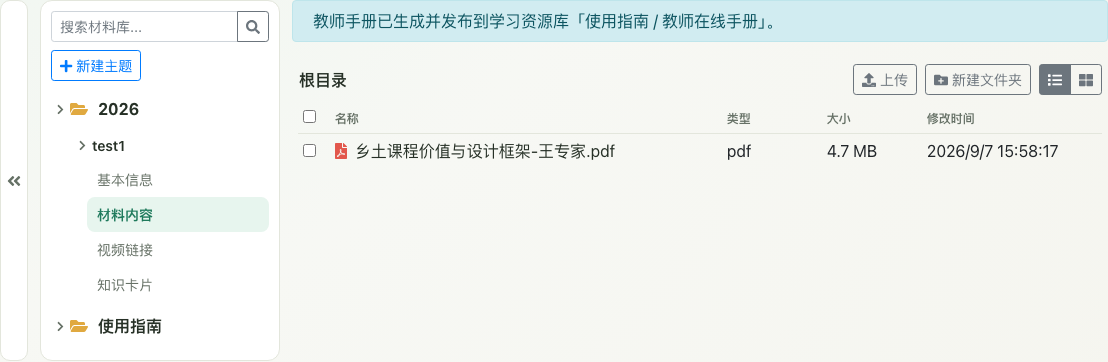
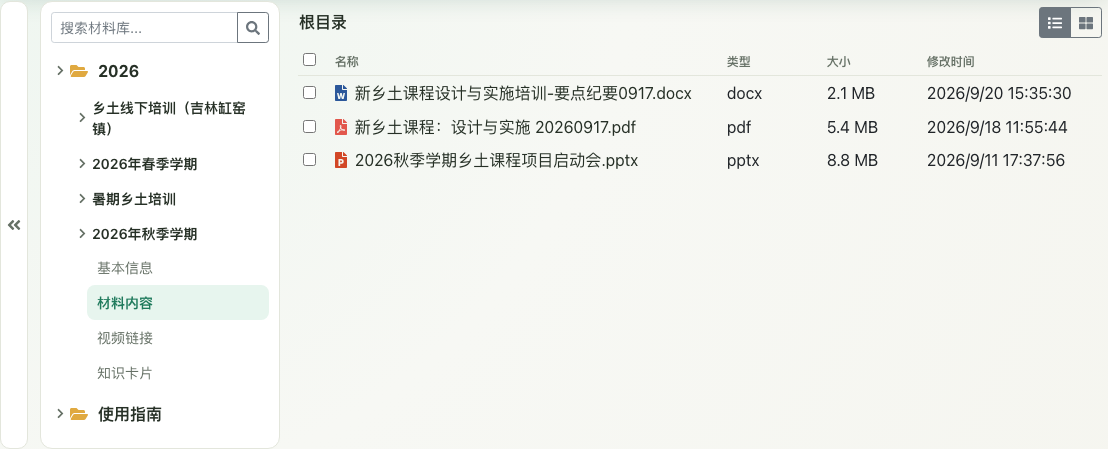
Source the 学习资源库 manual screenshot from production, not dev
Dev's only real 学习资源库 topic is a single-file placeholder-ish "test1";
production's real 2026年秋季学期 topic has several genuinely real uploaded
files, much more representative of what the feature actually looks like in
use. Everything else stays sourced from dev, which has the richer real
乡土课程设计 content (5 real plans vs. production's 1 sparse one).

captureManualScreenshots.js now mints a JWT on production too (via SSH into
the same deploy target scripts/deploy-aliyun-hk.env uses, never touching the
real account's actual password) and reads that one topic's 材料内容 tab
read-only -- no writes to production at all. Deliberately never opens that
topic's 基本信息 tab, which carries a real 主讲人 name; every other screenshot
was re-checked by hand to confirm no real person's name appears in it.

diff --git a/backend/scripts/captureManualScreenshots.js b/backend/scripts/captureManualScreenshots.js
@@ -1,28 +1,47 @@
 // Drives a headless Chromium (via Playwright, a devDependency -- never
-// installed in the production image, see backend/package.json) against a
-// running local dev instance of the app to capture the screenshots
-// teacherManualGenerator.js embeds in the auto-generated teacher manual.
+// installed in the production image, see backend/package.json) to capture
+// the screenshots teacherManualGenerator.js embeds in the auto-generated
+// teacher manual -- sourcing each one from whichever real server (local dev
+// or production) actually has the more representative real content for it.
+// Right now that's local dev for everything plan-related (richer 乡土课程设计
+// content there) and production for 学习资源库 (its real 2026年秋季学期 topic
+// has several real uploaded files; dev's only real topic is a single-file
+// placeholder-ish "test1") -- see MATERIAL_* below.
 //
-// Uses REAL existing accounts and REAL existing 乡土课程设计/学习资源库 content
-// already on this dev server -- not fabricated demo data. Logging in is done
+// Uses REAL existing accounts and REAL existing content on whichever server
+// each screenshot comes from -- not fabricated demo data. Logging in is done
 // by minting a real JWT for an existing user id (scripts/mintDevToken.js,
-// run inside the backend container, where the real JWT_SECRET lives) and
-// injecting it into localStorage, never by touching/knowing anyone's actual
-// password. See scripts/prepareManualScreenshotState.js for the couple of
-// small, clearly-scoped nudges (a review pair, a needsMigration flag) this
-// still needs on top of what's already there naturally.
+// run *on that server* -- inside the local backend container via `docker
+// compose exec`, or on the production ECS host via SSH -- wherever that
+// server's own real JWT_SECRET actually lives) and injecting it into
+// localStorage, never by touching/knowing anyone's actual password. See
+// scripts/prepareManualScreenshotState.js for the couple of small,
+// clearly-scoped nudges (a review pair, a needsMigration flag) dev's real
+// content still needed on top of what was already there naturally.
 //
-// The account ids and plan ids below are specific to THIS dev database --
-// on a different server, inspect what's actually there and update them
-// (see prepareManualScreenshotState.js's own header for the same caveat).
+// No real person's name is ever displayed in any captured screenshot --
+// checked by hand for each one (dev's teacher/expert display names are
+// genericized by prepareManualScreenshotState.js; production's 学习资源库
+// topic has a real 主讲人 name on its 基本信息 tab, so this deliberately only
+// ever captures its 材料内容 tab, never 基本信息).
 //
-// Prerequisites (all local/dev-only, never run against a real deployment):
+// The account ids/plan titles/SSH target below are specific to *these*
+// servers -- on a different one, inspect what's actually there and update
+// them (see prepareManualScreenshotState.js's own header for the same
+// caveat, and scripts/deploy-aliyun-hk.env for where the SSH target/prod
+// domain come from).
+//
+// Prerequisites (dev screenshots -- local/dev-only, never run destructive
+// steps against a real deployment):
 //   1. `docker compose up --build` (frontend on :3000, backend on :8080).
 //   2. `docker compose exec backend node scripts/prepareManualScreenshotState.js`
 //   3. From the HOST (not inside the alpine backend container -- Playwright's
 //      bundled Chromium needs glibc, which alpine doesn't have):
 //        cd backend && npm install && npx playwright install --with-deps chromium
 //        node scripts/captureManualScreenshots.js
+// Production screenshots additionally need SSH access to the deploy target
+// (same key deploy-aliyun-hk.env uses) -- this script only ever *reads*
+// production (view a real 学习资源库 topic), never writes to it.
 //
 // Writes PNGs into backend/assets/manual-screenshots/ -- commit them once
 // you've eyeballed that they look right; teacherManualGenerator.js embeds
@@ -31,6 +50,7 @@
 // Re-run this any time the UI changes enough that a screenshot goes stale.
 const path = require("path");
 const fs = require("fs");
+const os = require("os");
 const { execFileSync } = require("child_process");
 const { chromium } = require("playwright");
 
@@ -38,24 +58,31 @@ const BASE_URL = process.env.MANUAL_SCREENSHOT_BASE_URL || "http://localhost:300
 const OUT_DIR = path.join(__dirname, "..", "assets", "manual-screenshots");
 const REPO_ROOT = path.join(__dirname, "..", "..");
 
-const TEACHER_ID = 8; // yannonghuang / 黄砚农教师 -- a real existing teacher account
-const ADMIN_ID = 4; // manager / 管理员 -- a real existing admin account
+const TEACHER_ID = 8; // yannonghuang / 黄教师 -- a real existing teacher account (dev)
 
-// Real plans already on this server (see prepareManualScreenshotState.js's
+// Real plans already on the dev server (see prepareManualScreenshotState.js's
 // own comment on how these were picked).
 const REVIEW_PLAN_TITLE = "小小菜农 —— 萝卜种植乡土实践课"; // real 设计 content + a real review pair
 const MANUAL_MIGRATION_PLAN_TITLE = "童心探敦煌，巧手汇非遗"; // real leftover 手动迁移内容 from an actual past migration
 
-// Real 学习资源库 topic already on this server, with one real uploaded file.
+// 学习资源库 content is sourced from PRODUCTION instead of dev -- see this
+// file's header comment on why, and on why only 材料内容 (never 基本信息, which
+// carries a real 主讲人 name) is ever captured from it.
+const PROD_BASE_URL = "https://xtclass.shinshinfoundation.org";
+const PROD_SSH_HOST = "root@8.210.148.145";
+const PROD_SSH_KEY = path.join(os.homedir(), ".ssh", "shinshin_deploy");
+const PROD_DEPLOY_PATH = "/opt/shinshin_curriculum";
+const PROD_TEACHER_ID = 2; // yannonghuang -- the same real teacher, on production
 const MATERIAL_CATEGORY = "2026";
-const MATERIAL_THEME = "test1";
+const MATERIAL_THEME = "2026年秋季学期";
 
 fs.mkdirSync(OUT_DIR, { recursive: true });
 
 // Mints the same {id, username, ..., accessToken, ...} shape auth.
 // controller.js#signin returns, for an existing user id, by running
-// mintDevToken.js *inside* the backend container (only place the real
-// JWT_SECRET env var lives) -- never touches that user's actual password.
+// mintDevToken.js *inside the backend container on the given server* (the
+// only place that server's own real JWT_SECRET env var lives) -- never
+// touches that user's actual password.
 const mintToken = (userId) => {
   const output = execFileSync(
     "docker",
@@ -65,12 +92,20 @@ const mintToken = (userId) => {
   return JSON.parse(output);
 };
 
+const mintTokenOnProd = (userId) => {
+  const remoteCmd = `cd ${PROD_DEPLOY_PATH} && docker compose exec -T backend node scripts/mintDevToken.js ${userId}`;
+  const output = execFileSync("ssh", ["-i", PROD_SSH_KEY, "-o", "ConnectTimeout=10", PROD_SSH_HOST, remoteCmd], {
+    encoding: "utf8",
+  });
+  return JSON.parse(output);
+};
+
 // Injects the minted token into localStorage before the app's own first
 // script runs (addInitScript fires on every new document in this context),
 // so AuthService.getCurrentUser() already finds a valid session on first
 // paint -- no /login form, no password, ever.
-const loginAs = async (context, userId) => {
-  const user = mintToken(userId);
+const loginAs = async (context, userId, mintFn = mintToken) => {
+  const user = mintFn(userId);
   await context.addInitScript((userJson) => {
     window.localStorage.setItem("user", userJson);
   }, JSON.stringify(user));
@@ -207,37 +242,29 @@ async function run() {
     await page.locator(".copilot-toggle").click();
 
     // ---------------------------------------------------------------
-    // Admin-role screenshots (学习资源库) -- a fresh browser context, not the
-    // teacher's `page` above: two different logged-in sessions can't share
-    // one localStorage-backed context.
+    // 学习资源库 screenshot -- sourced from PRODUCTION (see this file's header
+    // for why), read-only: browses a real topic as the same real teacher
+    // account, never writes anything. A fresh browser context -- different
+    // server entirely, so it needs its own localStorage-backed session.
     // ---------------------------------------------------------------
-    console.log("==> Logging in as real admin account (no password used)...");
-    const adminContext = await browser.newContext({ viewport: { width: 1440, height: 900 } });
-    await loginAs(adminContext, ADMIN_ID);
-    const adminPage = await adminContext.newPage();
-    await adminPage.goto(`${BASE_URL}/materials`, { waitUntil: "load" });
-
-    // A real admin action (publishes/updates the actual 使用指南/教师在线手册
-    // topic) -- not captured for its own screenshot here, just exercised so
-    // a stale publish doesn't linger if this script is the only thing run.
-    console.log("==> Publishing 教师在线手册 into 使用指南...");
-    const publishButton = adminPage.getByRole("button", { name: /生成并发布到/ });
-    if (await publishButton.count()) {
-      await publishButton.click();
-      await adminPage.waitForTimeout(3000);
-    }
+    console.log("==> Logging in on PRODUCTION as the real teacher account (no password used)...");
+    const prodContext = await browser.newContext({ viewport: { width: 1440, height: 900 } });
+    await loginAs(prodContext, PROD_TEACHER_ID, mintTokenOnProd);
+    const prodPage = await prodContext.newPage();
+    await prodPage.goto(`${PROD_BASE_URL}/materials`, { waitUntil: "load" });
 
     // A populated 材料内容 file listing from a real, already-existing 学习
-    // 资源库 topic (see this file's header) -- not staged for the screenshot.
-    console.log("==> 学习资源库：材料内容 文件列表 (真实主题的真实文件)");
-    await adminPage.locator("button.pl-explorer-folder", { hasText: MATERIAL_CATEGORY }).first().click();
-    await adminPage.waitForTimeout(300);
-    await adminPage.getByText(MATERIAL_THEME, { exact: true }).first().click();
-    await adminPage.waitForTimeout(300);
-    await adminPage.getByText("材料内容", { exact: true }).first().click();
-    await adminPage.waitForTimeout(300);
-    await shoot(adminPage.locator(".pl-explorer").first(), "materials-library-content");
-    await adminContext.close();
+    // 资源库 topic on production -- deliberately never opens 基本信息 (see
+    // this file's header on why); reads only, writes nothing.
+    console.log("==> 学习资源库：材料内容 文件列表 (生产环境真实主题的真实文件)");
+    await prodPage.locator("button.pl-explorer-folder", { hasText: MATERIAL_CATEGORY }).first().click();
+    await prodPage.waitForTimeout(300);
+    await prodPage.getByText(MATERIAL_THEME, { exact: true }).first().click();
+    await prodPage.waitForTimeout(300);
+    await prodPage.getByText("材料内容", { exact: true }).first().click();
+    await prodPage.waitForTimeout(300);
+    await shoot(prodPage.locator(".pl-explorer").first(), "materials-library-content");
+    await prodContext.close();
 
     console.log("\n==> All screenshots captured into", OUT_DIR);
   } catch (err) {

diff --git a/backend/assets/manual-screenshots/README.md b/backend/assets/manual-screenshots/README.md
@@ -4,18 +4,29 @@ PNGs captured by `scripts/captureManualScreenshots.js` and embedded by
 `app/services/teacherManualGenerator.js` into the auto-generated teacher
 manual. Every file here is a real screenshot of the running app, taken
 against **real existing accounts and real existing 乡土课程设计/学习资源库
-content** already on the dev server it was run against — not a fabricated
-demo account with placeholder text. `scripts/prepareManualScreenshotState.js`
-adds only the couple of small, clearly-scoped nudges (a review pair, a
-`needsMigration` flag) that a specific screenshot needs but this server's
-organic content doesn't already have sitting ready.
+content** — not a fabricated demo account with placeholder text. Most come
+from the local dev server (richer real 乡土课程设计 content there);
+`materials-library-content.png` comes from **production** instead (its real
+2026年秋季学期 topic has several real uploaded files; dev's only real topic
+is a single-file placeholder-ish one) — read-only, never writes anything
+there. `scripts/prepareManualScreenshotState.js` adds only the couple of
+small, clearly-scoped nudges dev's real content needed on top of what was
+already there naturally (a review pair, a `needsMigration` flag), plus
+genericizes the real accounts'/file's display names (黄教师/黄专家/王专家) so
+the manual — distributed to every user — doesn't carry anyone's actual full
+name. Every screenshot is checked by hand to make sure no real person's name
+ends up in it (see captureManualScreenshots.js's own header for specifics,
+e.g. why the production topic's 基本信息 tab, which does carry one, is never
+captured).
 
-`scripts/mintDevToken.js` is how the capture script "logs in" — it mints a
-real JWT for an existing user id and injects it into localStorage, so no
-account's actual password is ever touched or known.
+`scripts/mintDevToken.js` is how the capture script "logs in" on either
+server — it mints a real JWT for an existing user id (run inside that
+server's own backend container, local via `docker compose exec` or
+production via SSH) and injects it into localStorage, so no account's
+actual password is ever touched or known.
 
-**Both scripts hardcode ids specific to the dev database they were last run
-against** (see their own header comments) — on a different server, inspect
+**All of these hardcode ids/hosts specific to these particular servers**
+(see each script's own header comments) — on a different server, inspect
 what's actually there (`Plan.findAll` by teacherId, etc.) and update the
 constants to match, rather than assuming these same ids exist.
 
@@ -26,7 +37,9 @@ docker compose up --build
 docker compose exec backend node scripts/prepareManualScreenshotState.js
 
 # From the HOST, not inside the alpine backend container (Playwright's
-# bundled Chromium needs glibc):
+# bundled Chromium needs glibc). Also needs SSH access to production (same
+# key scripts/deploy-aliyun-hk.env uses) for the one screenshot sourced
+# from there:
 cd backend
 npm install
 npx playwright install --with-deps chromium
@@ -50,7 +63,7 @@ whole document, so it's fine to add these incrementally.
 | `copilot-panel.png` | 十二、AI 聊天助手「欣欣助手」 |
 | `lesson-file-manager.png` | 十三、执行阶段支撑材料管理 |
 | `manual-migration-panel.png` | 十四、模板迁移 |
-| `materials-library-content.png` | 十五、学习资源库 |
+| `materials-library-content.png` | 十五、学习资源库 (sourced from production) |
 
 To add another screenshot: capture it in `captureManualScreenshots.js`,
 reference it via `screenshot("name", "caption")` at the right point in
